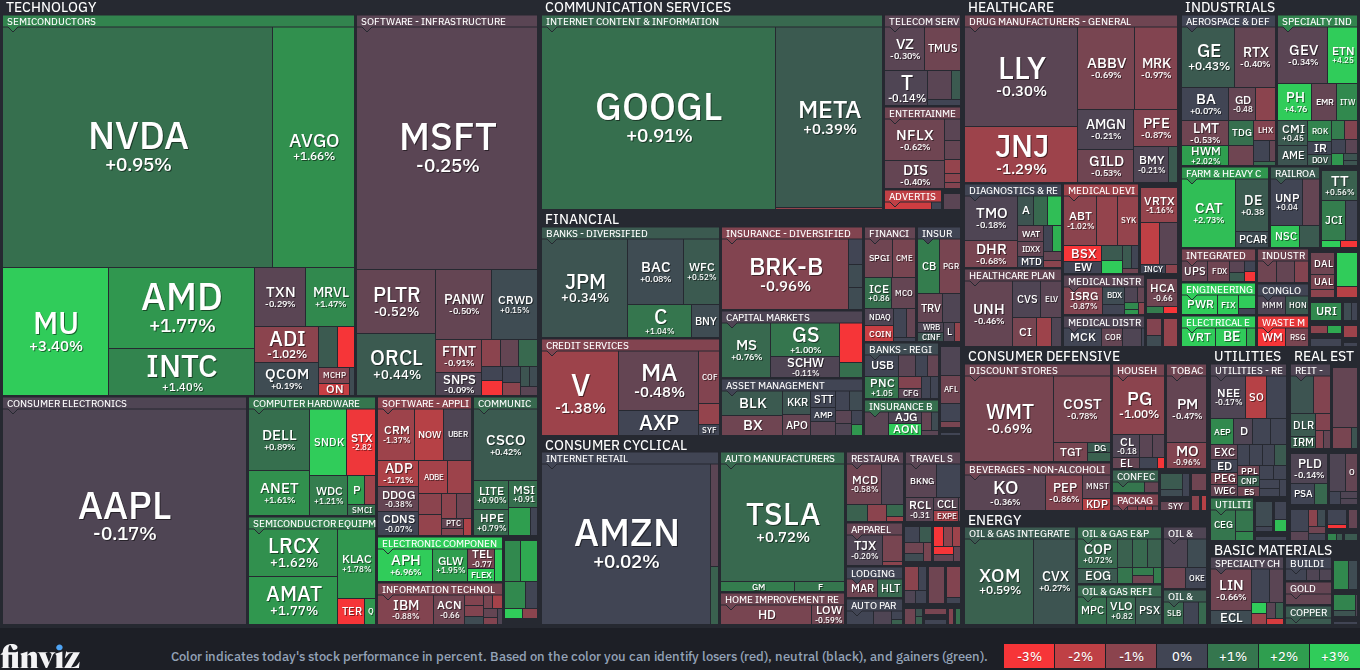
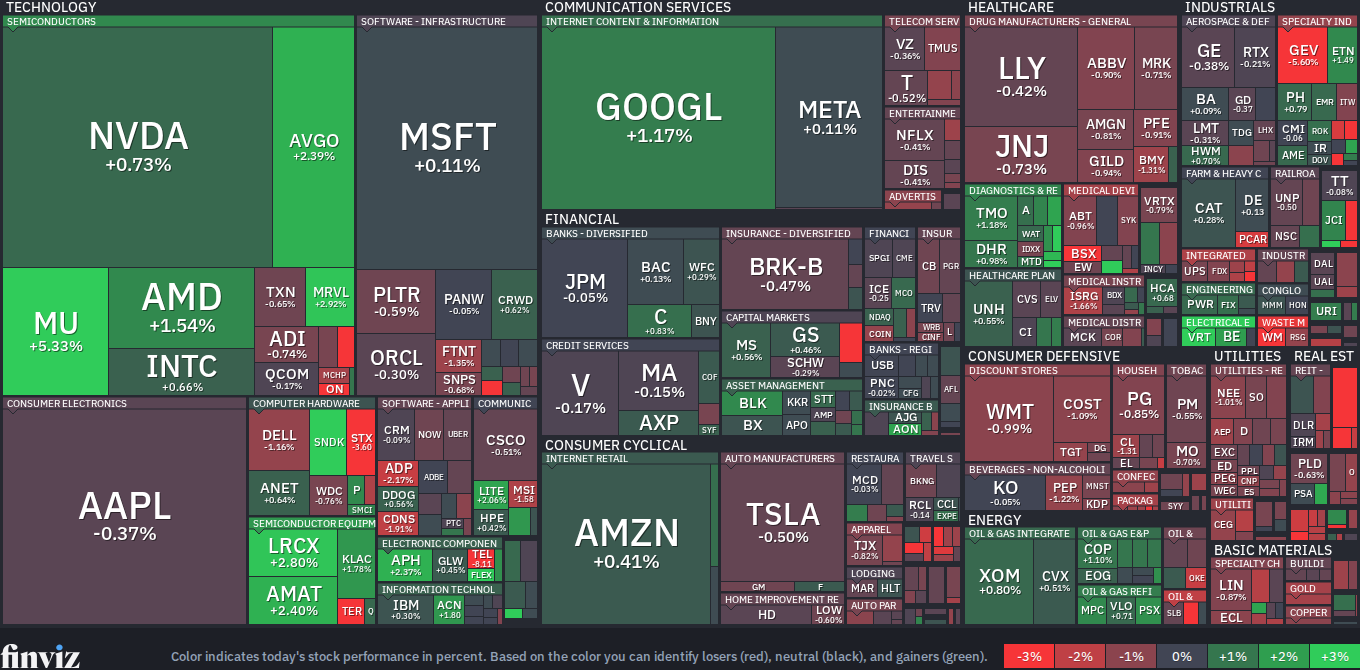
Auto-update blog preview, stock history, and charts [skip ci]

diff --git a/blog_preview.html b/blog_preview.html
@@ -2,7 +2,7 @@
 <html lang="ko">
 <head>
     <meta charset="UTF-8">
-    <title>10월 28일 경제 주요 흐름 및 종목 추천 특징주 분석 - 신한지주, ISC, 엔비디아, 테슬라</title>
+    <title>10월 29일 경제 주요 흐름 및 종목 추천 특징주 분석 - 신한지주, ISC, NVIDIA, Tesla</title>
     <style>
         body { font-family: 'Apple SD Gothic Neo', sans-serif; max-width: 800px; margin: 40px auto; padding: 20px; line-height: 1.7; color: #333; }
         .timestamp-badge { background: #f1f3f5; color: #495057; font-size: 13px; padding: 6px 12px; border-radius: 20px; display: inline-block; margin-bottom: 15px; font-weight: bold; border: 1px solid #dee2e6; }
@@ -17,23 +17,23 @@
     </style>
 </head>
 <body>
-    <div class="timestamp-badge">⏱ 업데이트 시각: 2026년 10월 28일 22:11:44 (KST)</div>
+    <div class="timestamp-badge">⏱ 업데이트 시각: 2026년 10월 28일 22:39:39 (KST)</div>
     <h1>📊 자동 생성 블로그 포스팅 미리보기</h1>
     <p>우측 상단의 <b>[본문 복사]</b> 버튼을 누른 뒤 블로그 에디터에 붙여넣으세요!</p>
     <hr>
     
     <h3>📌 포스팅 제목</h3>
-    <div class="title-box">10월 28일 경제 주요 흐름 및 종목 추천 특징주 분석 - 신한지주, ISC, 엔비디아, 테슬라</div>
+    <div class="title-box">10월 29일 경제 주요 흐름 및 종목 추천 특징주 분석 - 신한지주, ISC, NVIDIA, Tesla</div>
 
     <h3>📝 본문 텍스트 (차트 및 거시경제 링크 포함)</h3>
     <div class="content-container">
         <button class="copy-btn" onclick="copyContent()">📋 본문 복사</button>
-        <div class="content" id="blog-content">안녕하세요. 요즘 증시가 오를만하면 빠지고 또 찔끔 반등하는 반복이라 차트 보고 있으면 한숨만 나오는 것 같습니다... <br>주변 친구들도 코인이나 주식으로 한강 갈 판이라고 농담 반 진담 반으로 그러는데 제발 멘탈 잘 잡고 버텨야겠습니다 ㅜㅜ<br>오늘도 어김없이 거시경제 지표 흐름 체크해온 거랑 조건 검색으로 건진 종목들 분석해드릴게요.<br><br>[경제 이슈]<br><br>원화 M2 통화량) https://tradingeconomics.com/south-korea/money-supply-m2<br>한국 경기선행지수 ) https://tradingeconomics.com/south-korea/leading-economic-index<br>달러 M2 통화량) https://tradingeconomics.com/united-states/money-supply-m2<br>미국 경기선행지수 ) https://tradingeconomics.com/united-states/leading-economic-index<br><br>통화량과 경기선행지수는 위 사이트에서 확인하실 수 있습니다. 꾸준히 우상향하는 흐름이에요.<br><br><div class="img-box"><img src="https://dhlee090512-arch.github.io/autoblog/assets/usdkrw_chart.png?t=1793193104" alt="환율 차트"></div><br>![환율 차트](https://github.com/user-attachments/assets/placeholder)<br><br>차트를 보면 최근 환율이 1,500원대 높은 구간에서 쭉 미끄러지듯 내려와서 1,320원 부근까지 저점을 찍고 최근에 다시 살짝 반등해서 1,340원대 안착을 시도하는 모습입니다. 연준의 FOMC 회의나 금리 정책에 대한 경계감이 워낙 팽팽한 시기라 아래쪽으로 지지를 받으면서 단기 반발 매수세가 붙은 것으로 보입니다. 환율이 다시 살짝 고개를 드는 국면이라 외국인 수급이 대거 유입되기보다는 눈치 보기 장세가 이어질 가능성이 높아 보입니다.<br><br>![Finviz 맵](https://github.com/user-attachments/assets/placeholder)<br><br><div class="img-box"><img src="https://dhlee090512-arch.github.io/autoblog/assets/finviz_map.png?t=1793193104" alt="Finviz 섹터 맵"></div><br>오늘 핀비즈 맵을 살펴보면 테크놀로지 섹터가 전반적으로 초록빛을 띠며 반등하는 흐름입니다. 특히 반도체 쪽에서 NVDA, AMD, MU, INTC 같은 주요 종목들이 튼튼하게 상승세를 보여주고 있고, 소프트웨어나 커뮤니케이션 쪽에서도 GOOGL이나 META 등이 소폭 오르면서 기술주 중심의 온기가 돌고 있습니다. 다만 헬스케어랑 소비재 쪽은 붉은색이 좀 더 많이 보이면서 업종별로 차별화 장세가 뚜렷하게 갈리는 분위기입니다.<br><br>이런 상황을 종합해 보면, 국내외로 금리 결정 이벤트를 앞두고 매크로 불확실성이 극에 달한 상태입니다. 미장은 빅테크와 반도체 위주로 저가 매수세가 들어오며 방어하는 모양새지만, 국장은 환율 변동성과 맞물려 수급이 매끄럽지 않은 편입니다. 무리하게 풀매수하기보다는 지지선을 철저히 지켜주는 종목 위주로 짧게 치고 빠지는 전략이 안전할 것 같습니다.<br><br><br>[특징주 분석]<br><br>1. 신한지주<br><br>(종목 차트)<br>(종목 트레이딩뷰 url)<br><br>첫 번째로 볼 국장 종목은 신한지주입니다. 최근 단기 낙폭이 과하게 나오면서 120일 최저점 부근까지 밀렸다가 최근 거래량을 동반한 장대양봉으로 강하게 고가 마감된 모습입니다. RSI가 27 근처의 과매도 구간을 드디어 탈피하면서 단기 반등 파동의 초입일 가능성이 높아 보입니다. 중기 이평선이 여전히 역배열 상태이므로 추격 매수보다는 눌림목을 노리는 것이 안전합니다. 추천 진입 타점은 86,000원 부근의 눌림목 지지로 잡고, 최근 저점을 이탈하는 82,400원을 손절선으로 타이트하게 잡는 게 좋아 보입니다.<br><br>2. ISC<br><br>(종목 차트)<br>(종목 트레이딩뷰 url)<br><br>두 번째 국장 종목은 ISC입니다. 반도체 장비 관련 테마 속에서 최근 조정을 거치고 대량 거래량을 터뜨리며 장대양봉을 뽑아낸 것이 특징입니다. 주요 매물대 POC 상단을 위로 뚫어낸 상태라 단기 추세 반전 기대감이 살아 있는 편입니다. RSI도 47 부근으로 중립 우상향 흐름을 잡아가고 있어서 모멘텀이 괜찮습니다. 162,500원 전후의 가격대를 눌림목 지지 타점으로 보고, 148,300원을 이탈하면 리스크 관리 차원에서 손절하는 전략으로 접근하는 것이 유리해 보입니다.<br><br>3. Nvidia<br><br>(종목 차트)<br>(종목 트레이딩뷰 url)<br><br>미장 첫 번째 종목은 엔비디아입니다. 최근 AI 관련 거품 논란과 단기 조정 속에서도 120일선과 주요 매물대 POC 상단 부근에서 바닥을 단단하게 다지는 흐름이 나왔습니다. RSI는 40대 중후반에서 상향 반등을 시도하고 있으며, 빅테크 실적 기대감과 맞물려 매수세가 유입되는 모습입니다. MACD 데드크로스가 아직 완전히 해소되지는 않았기 때문에 213.58달러 안팎의 눌림목 타점을 공략하는 것이 현명합니다. 손절선은 주요 매물대와 버퍼를 고려해 207.04달러로 타이트하게 설정하는 것을 추천합니다.<br><br>4. Tesla, Inc.<br><br>(종목 차트)<br>(종목 트레이딩뷰 url)<br><br>마지막 미장 종목은 테슬라입니다. 최근 월스트리트 거래대금 상위를 꾸준히 유지하면서 볼린저밴드 상단을 강하게 돌파하는 장대양봉이 터졌습니다. RSI가 65를 넘어가며 상승 모멘텀이 아주 가파르게 붙어 있는 상태이고, MACD도 골든크로스를 유지하면서 에너지가 좋은 편입니다. 399.31달러 부근을 단기 눌림목 매수 타사로 잡고, 385.53달러를 손절선으로 잡고 대응하면 손익비가 꽤 훌륭하게 나올 것 같습니다.<br><br><br>요즘 장이 하도 롤러코스터를 타서 마음의 평화를 유지하기가 힘든데 다들 멘탈 잘 붙잡으셨으면 좋겠습니다. 내일도 살아남아서 쓸만한 정보 들고 찾아오겠습니다.<br><br>읽어주셔서 감사합니다. 끗</div>
+        <div class="content" id="blog-content">안녕하세요. 요즘 증시가 위아래로 흔들리는 폭이 워낙 크다 보니까 본업 하다가도 폰으로 계좌 보게 되는 날이 많네요...<br>주변 주식하는 친구들도 요즘 장 너무 매운맛이라며 한숨만 푹푹 쉬는데 그래도 어쩌겠습니까 살아남아야죠.<br>오늘도 정신 바짝 차리고 거시경제 지표부터 싹 정리해왔으니까 차근차근 살펴보겠습니다.<br><br>[경제 이슈]<br><br>원화 M2 통화량) https://tradingeconomics.com/south-korea/money-supply-m2<br>한국 경기선행지수 ) https://tradingeconomics.com/south-korea/leading-economic-index<br>달러 M2 통화량) https://tradingeconomics.com/united-states/money-supply-m2<br>미국 경기선행지수 ) https://tradingeconomics.com/united-states/leading-economic-index<br><br>통화량과 경기선행지수는 위 사이트에서 확인 가능합니다. 꾸준히 우상향 추세입니다.<br><br><div class="img-box"><img src="https://dhlee090512-arch.github.io/autoblog/assets/usdkrw_chart.png?t=1793194779" alt="환율 차트"></div><br><br>환율 차트를 보면 최근 고점을 찍고 줄줄 흘러내리다가 최근에 1,320원 부근 저점을 다지고 다시 살짝 고개를 드는 모습이 나옵니다. 1,500원대를 넘보던 시기에 비하면 원화가 많이 강해진 셈이지만, 연준의 금리 결정이랑 FOMC 회의를 앞두고 경계 매물이 나오면서 단기 반등하는 흐름인 것 같아요. 외환당국도 계속 긴장하고 있는 국면이라 무턱대고 환율이 계속 빠질 거라고 믿기보다는 상방 열려있는 걸 열어두고 보수적으로 접근하는 게 안전해 보입니다.<br><br><div class="img-box"><img src="https://dhlee090512-arch.github.io/autoblog/assets/finviz_map.png?t=1793194779" alt="Finviz 섹터 맵"></div><br><br>핀비즈 맵을 보면 테크 섹터랑 반도체 쪽은 진한 초록색을 띠면서 전반적으로 좋은 흐름을 보여주고 있습니다. 특히 마이크론이나 엔비디아 같은 대형 반도체 주식들이 강세를 주도하고 있고, 커뮤니케이션 서비스나 일부 소비재 쪽도 초록불이 켜지면서 시장에 온기가 돌고 있는 모습입니다. 반면 헬스케어랑 일부 유틸리티 및 필수 소비재 쪽은 빨간불이 켜지면서 자금이 기술주 쪽으로 쏠린 걸 확인할 수 있습니다.<br><br><br>위 내용을 종합해 보면 지금 시장은 FOMC 발표를 앞두고 눈치 보기 장세가 짙은 상태입니다. 국내는 환율이 바닥 다지고 살짝 반등하는 기미를 보이면서 외국인 수급이 대형주 위주로 조심스럽게 들어오는 느낌이고요. 미장은 AI 테마랑 반도체 중심으로 다시 매수세가 붙으면서 나쁘지 않은 분위기를 풍기고 있습니다. 다만 연준의 스탠스에 따라 언제든지 분위기가 뒤집힐 수 있어서 방심은 금물입니다.<br><br>이럴 때일수록 무리하게 레버리지 쓰기보다는 차트에서 바닥을 다지고 확실하게 지지 라인을 지켜주는 종목들 위주로 짧게 스윙 치는 게 현명한 것 같아요. 변동성이 크니까 욕심 부리지 말고 손절가 칼같이 잡고 대응하는 트레이딩 관점이 유리할 겁니다.<br><br><br><br>[특징주 분석]<br><br>1. 신한지주<br><br>(종목 차트)<br>(종목 트레이딩뷰 url)<br><br>첫 번째 종목은 신한지주입니다. 최근 단기 낙폭이 깊어지면서 120일 최저점 부근까지 밀렸다가 최근 거래량을 동반한 장대양봉이 터져 나오면서 단기 바닥 시그널을 만들었습니다. Wilder RSI는 27대 과매도 구간에서 강하게 위로 고개를 돌리며 모멘텀을 회복하는 모양새입니다. 다만 아직 중기 이동평균선들이 역배열 상태라서 추세가 완전히 돌아섰다고 보기엔 이릅니다. 안전한 매수 타점은 86,000원 부근의 눌림목을 노리는 것이 좋고, 혹시라도 최근 저점을 깨고 내려가면 82,400원 부근에서 손절하며 리스크를 관리하는 게 현명해 보입니다.<br><br>2. ISC<br><br>(종목 차트)<br>(종목 트레이딩뷰 url)<br><br>두 번째 국장 종목은 ISC입니다. 최근 조정을 길게 받다가 대량 거래량이 터지면서 장대양봉으로 전고점 저항대를 뚫어버리는 강한 매수세가 유입되었습니다. RSI도 47 부근을 회복하면서 추가 상승 여력을 보여주고 있고 주요 매물대 상단에 자리를 잘 잡았습니다. 162,500원 전후로 나오는 눌림목 자리를 매수 포인트로 잡고, 혹시 장이 꺾이면서 매물대를 이탈하면 148,300원을 손절선으로 잡고 빠져나오는 전략이 좋아 보입니다.<br><br>3. NVIDIA<br><br>(종목 차트)<br>(종목 트레이딩뷰 url)<br><br>미장 첫 번째 종목은 엔비디아입니다. 최근 AI 거품론이나 변동성 때문에 조정을 좀 맞았지만 120일선과 주요 매물대 상단에서 기막히게 지지를 받으면서 반등 시도를 하고 있습니다. RSI도 40대 중반에서 위로 올라오면서 단기 반등 모멘텀에 불을 지폈습니다. MACD 데드크로스가 아직 신경 쓰이긴 하니까 추격 매수보다는 213.58달러 부근까지 내려오는 눌림목을 기다렸다가 받는 게 안전합니다. 손절라인은 최근 지지력을 보여준 207.04달러 이탈 시 칼같이 자르는 게 좋습니다.<br><br>4. Tesla, Inc.<br><br>(종목 차트)<br>(종목 트레이딩뷰 url)<br><br>마지막 미장 종목은 테슬라입니다. 최근 대량 거래대금을 실은 장대양봉이 꽂히면서 일목구름대 위로 안착했고 볼린저밴드 상단을 강하게 밀어 올리는 기세가 장난 아닙니다. RSI도 65를 넘기며 매수 에너지가 충만한 상태고 MACD 골든크로스도 이쁘게 터졌습니다. 차트 흐름이 워낙 강해서 399.31달러 부근의 눌림목을 타점으로 잡고 들어가기 좋아 보입니다. 혹시라도 수급이 꼬여서 내려간다면 385.53달러를 손절선으로 잡고 대응하는 것이 리스크 관리 측면에서 안전할 것 같습니다.<br><br><br>요즘은 장이 지수만 믿고 가기에는 변수가 너무 많아서 개별 종목들의 테크니컬한 자리나 수급 쏠림을 보면서 짧게 먹고 나오는 게 정신 건강에 이로운 것 같아요. 내일도 장 열리면 열심히 모니터링해보고 괜찮은 내용 들고 오겠습니다.<br><br>읽어주셔서 감사합니다. 끗</div>
     </div>
 
     <script>
         function copyContent() {
-            const textToCopy = "\uc548\ub155\ud558\uc138\uc694. \uc694\uc998 \uc99d\uc2dc\uac00 \uc624\ub97c\ub9cc\ud558\uba74 \ube60\uc9c0\uace0 \ub610 \ucc14\ub054 \ubc18\ub4f1\ud558\ub294 \ubc18\ubcf5\uc774\ub77c \ucc28\ud2b8 \ubcf4\uace0 \uc788\uc73c\uba74 \ud55c\uc228\ub9cc \ub098\uc624\ub294 \uac83 \uac19\uc2b5\ub2c8\ub2e4... \n\uc8fc\ubcc0 \uce5c\uad6c\ub4e4\ub3c4 \ucf54\uc778\uc774\ub098 \uc8fc\uc2dd\uc73c\ub85c \ud55c\uac15 \uac08 \ud310\uc774\ub77c\uace0 \ub18d\ub2f4 \ubc18 \uc9c4\ub2f4 \ubc18\uc73c\ub85c \uadf8\ub7ec\ub294\ub370 \uc81c\ubc1c \uba58\ud0c8 \uc798 \uc7a1\uace0 \ubc84\ud168\uc57c\uaca0\uc2b5\ub2c8\ub2e4 \u315c\u315c\n\uc624\ub298\ub3c4 \uc5b4\uae40\uc5c6\uc774 \uac70\uc2dc\uacbd\uc81c \uc9c0\ud45c \ud750\ub984 \uccb4\ud06c\ud574\uc628 \uac70\ub791 \uc870\uac74 \uac80\uc0c9\uc73c\ub85c \uac74\uc9c4 \uc885\ubaa9\ub4e4 \ubd84\uc11d\ud574\ub4dc\ub9b4\uac8c\uc694.\n\n[\uacbd\uc81c \uc774\uc288]\n\n\uc6d0\ud654 M2 \ud1b5\ud654\ub7c9) https://tradingeconomics.com/south-korea/money-supply-m2\n\ud55c\uad6d \uacbd\uae30\uc120\ud589\uc9c0\uc218 ) https://tradingeconomics.com/south-korea/leading-economic-index\n\ub2ec\ub7ec M2 \ud1b5\ud654\ub7c9) https://tradingeconomics.com/united-states/money-supply-m2\n\ubbf8\uad6d \uacbd\uae30\uc120\ud589\uc9c0\uc218 ) https://tradingeconomics.com/united-states/leading-economic-index\n\n\ud1b5\ud654\ub7c9\uacfc \uacbd\uae30\uc120\ud589\uc9c0\uc218\ub294 \uc704 \uc0ac\uc774\ud2b8\uc5d0\uc11c \ud655\uc778\ud558\uc2e4 \uc218 \uc788\uc2b5\ub2c8\ub2e4. \uafb8\uc900\ud788 \uc6b0\uc0c1\ud5a5\ud558\ub294 \ud750\ub984\uc774\uc5d0\uc694.\n\n<div class=\"img-box\"><img src=\"https://dhlee090512-arch.github.io/autoblog/assets/usdkrw_chart.png?t=1793193104\" alt=\"\ud658\uc728 \ucc28\ud2b8\"></div>\n![\ud658\uc728 \ucc28\ud2b8](https://github.com/user-attachments/assets/placeholder)\n\n\ucc28\ud2b8\ub97c \ubcf4\uba74 \ucd5c\uadfc \ud658\uc728\uc774 1,500\uc6d0\ub300 \ub192\uc740 \uad6c\uac04\uc5d0\uc11c \ucb49 \ubbf8\ub044\ub7ec\uc9c0\ub4ef \ub0b4\ub824\uc640\uc11c 1,320\uc6d0 \ubd80\uadfc\uae4c\uc9c0 \uc800\uc810\uc744 \ucc0d\uace0 \ucd5c\uadfc\uc5d0 \ub2e4\uc2dc \uc0b4\uc9dd \ubc18\ub4f1\ud574\uc11c 1,340\uc6d0\ub300 \uc548\ucc29\uc744 \uc2dc\ub3c4\ud558\ub294 \ubaa8\uc2b5\uc785\ub2c8\ub2e4. \uc5f0\uc900\uc758 FOMC \ud68c\uc758\ub098 \uae08\ub9ac \uc815\ucc45\uc5d0 \ub300\ud55c \uacbd\uacc4\uac10\uc774 \uc6cc\ub099 \ud33d\ud33d\ud55c \uc2dc\uae30\ub77c \uc544\ub798\ucabd\uc73c\ub85c \uc9c0\uc9c0\ub97c \ubc1b\uc73c\uba74\uc11c \ub2e8\uae30 \ubc18\ubc1c \ub9e4\uc218\uc138\uac00 \ubd99\uc740 \uac83\uc73c\ub85c \ubcf4\uc785\ub2c8\ub2e4. \ud658\uc728\uc774 \ub2e4\uc2dc \uc0b4\uc9dd \uace0\uac1c\ub97c \ub4dc\ub294 \uad6d\uba74\uc774\ub77c \uc678\uad6d\uc778 \uc218\uae09\uc774 \ub300\uac70 \uc720\uc785\ub418\uae30\ubcf4\ub2e4\ub294 \ub208\uce58 \ubcf4\uae30 \uc7a5\uc138\uac00 \uc774\uc5b4\uc9c8 \uac00\ub2a5\uc131\uc774 \ub192\uc544 \ubcf4\uc785\ub2c8\ub2e4.\n\n![Finviz \ub9f5](https://github.com/user-attachments/assets/placeholder)\n\n<div class=\"img-box\"><img src=\"https://dhlee090512-arch.github.io/autoblog/assets/finviz_map.png?t=1793193104\" alt=\"Finviz \uc139\ud130 \ub9f5\"></div>\n\uc624\ub298 \ud540\ube44\uc988 \ub9f5\uc744 \uc0b4\ud3b4\ubcf4\uba74 \ud14c\ud06c\ub180\ub85c\uc9c0 \uc139\ud130\uac00 \uc804\ubc18\uc801\uc73c\ub85c \ucd08\ub85d\ube5b\uc744 \ub760\uba70 \ubc18\ub4f1\ud558\ub294 \ud750\ub984\uc785\ub2c8\ub2e4. \ud2b9\ud788 \ubc18\ub3c4\uccb4 \ucabd\uc5d0\uc11c NVDA, AMD, MU, INTC \uac19\uc740 \uc8fc\uc694 \uc885\ubaa9\ub4e4\uc774 \ud2bc\ud2bc\ud558\uac8c \uc0c1\uc2b9\uc138\ub97c \ubcf4\uc5ec\uc8fc\uace0 \uc788\uace0, \uc18c\ud504\ud2b8\uc6e8\uc5b4\ub098 \ucee4\ubba4\ub2c8\ucf00\uc774\uc158 \ucabd\uc5d0\uc11c\ub3c4 GOOGL\uc774\ub098 META \ub4f1\uc774 \uc18c\ud3ed \uc624\ub974\uba74\uc11c \uae30\uc220\uc8fc \uc911\uc2ec\uc758 \uc628\uae30\uac00 \ub3cc\uace0 \uc788\uc2b5\ub2c8\ub2e4. \ub2e4\ub9cc \ud5ec\uc2a4\ucf00\uc5b4\ub791 \uc18c\ube44\uc7ac \ucabd\uc740 \ubd89\uc740\uc0c9\uc774 \uc880 \ub354 \ub9ce\uc774 \ubcf4\uc774\uba74\uc11c \uc5c5\uc885\ubcc4\ub85c \ucc28\ubcc4\ud654 \uc7a5\uc138\uac00 \ub69c\ub837\ud558\uac8c \uac08\ub9ac\ub294 \ubd84\uc704\uae30\uc785\ub2c8\ub2e4.\n\n\uc774\ub7f0 \uc0c1\ud669\uc744 \uc885\ud569\ud574 \ubcf4\uba74, \uad6d\ub0b4\uc678\ub85c \uae08\ub9ac \uacb0\uc815 \uc774\ubca4\ud2b8\ub97c \uc55e\ub450\uace0 \ub9e4\ud06c\ub85c \ubd88\ud655\uc2e4\uc131\uc774 \uadf9\uc5d0 \ub2ec\ud55c \uc0c1\ud0dc\uc785\ub2c8\ub2e4. \ubbf8\uc7a5\uc740 \ube45\ud14c\ud06c\uc640 \ubc18\ub3c4\uccb4 \uc704\uc8fc\ub85c \uc800\uac00 \ub9e4\uc218\uc138\uac00 \ub4e4\uc5b4\uc624\uba70 \ubc29\uc5b4\ud558\ub294 \ubaa8\uc591\uc0c8\uc9c0\ub9cc, \uad6d\uc7a5\uc740 \ud658\uc728 \ubcc0\ub3d9\uc131\uacfc \ub9de\ubb3c\ub824 \uc218\uae09\uc774 \ub9e4\ub044\ub7fd\uc9c0 \uc54a\uc740 \ud3b8\uc785\ub2c8\ub2e4. \ubb34\ub9ac\ud558\uac8c \ud480\ub9e4\uc218\ud558\uae30\ubcf4\ub2e4\ub294 \uc9c0\uc9c0\uc120\uc744 \ucca0\uc800\ud788 \uc9c0\ucf1c\uc8fc\ub294 \uc885\ubaa9 \uc704\uc8fc\ub85c \uc9e7\uac8c \uce58\uace0 \ube60\uc9c0\ub294 \uc804\ub7b5\uc774 \uc548\uc804\ud560 \uac83 \uac19\uc2b5\ub2c8\ub2e4.\n\n\n[\ud2b9\uc9d5\uc8fc \ubd84\uc11d]\n\n1. \uc2e0\ud55c\uc9c0\uc8fc\n\n(\uc885\ubaa9 \ucc28\ud2b8)\n(\uc885\ubaa9 \ud2b8\ub808\uc774\ub529\ubdf0 url)\n\n\uccab \ubc88\uc9f8\ub85c \ubcfc \uad6d\uc7a5 \uc885\ubaa9\uc740 \uc2e0\ud55c\uc9c0\uc8fc\uc785\ub2c8\ub2e4. \ucd5c\uadfc \ub2e8\uae30 \ub099\ud3ed\uc774 \uacfc\ud558\uac8c \ub098\uc624\uba74\uc11c 120\uc77c \ucd5c\uc800\uc810 \ubd80\uadfc\uae4c\uc9c0 \ubc00\ub838\ub2e4\uac00 \ucd5c\uadfc \uac70\ub798\ub7c9\uc744 \ub3d9\ubc18\ud55c \uc7a5\ub300\uc591\ubd09\uc73c\ub85c \uac15\ud558\uac8c \uace0\uac00 \ub9c8\uac10\ub41c \ubaa8\uc2b5\uc785\ub2c8\ub2e4. RSI\uac00 27 \uadfc\ucc98\uc758 \uacfc\ub9e4\ub3c4 \uad6c\uac04\uc744 \ub4dc\ub514\uc5b4 \ud0c8\ud53c\ud558\uba74\uc11c \ub2e8\uae30 \ubc18\ub4f1 \ud30c\ub3d9\uc758 \ucd08\uc785\uc77c \uac00\ub2a5\uc131\uc774 \ub192\uc544 \ubcf4\uc785\ub2c8\ub2e4. \uc911\uae30 \uc774\ud3c9\uc120\uc774 \uc5ec\uc804\ud788 \uc5ed\ubc30\uc5f4 \uc0c1\ud0dc\uc774\ubbc0\ub85c \ucd94\uaca9 \ub9e4\uc218\ubcf4\ub2e4\ub294 \ub20c\ub9bc\ubaa9\uc744 \ub178\ub9ac\ub294 \uac83\uc774 \uc548\uc804\ud569\ub2c8\ub2e4. \ucd94\ucc9c \uc9c4\uc785 \ud0c0\uc810\uc740 86,000\uc6d0 \ubd80\uadfc\uc758 \ub20c\ub9bc\ubaa9 \uc9c0\uc9c0\ub85c \uc7a1\uace0, \ucd5c\uadfc \uc800\uc810\uc744 \uc774\ud0c8\ud558\ub294 82,400\uc6d0\uc744 \uc190\uc808\uc120\uc73c\ub85c \ud0c0\uc774\ud2b8\ud558\uac8c \uc7a1\ub294 \uac8c \uc88b\uc544 \ubcf4\uc785\ub2c8\ub2e4.\n\n2. ISC\n\n(\uc885\ubaa9 \ucc28\ud2b8)\n(\uc885\ubaa9 \ud2b8\ub808\uc774\ub529\ubdf0 url)\n\n\ub450 \ubc88\uc9f8 \uad6d\uc7a5 \uc885\ubaa9\uc740 ISC\uc785\ub2c8\ub2e4. \ubc18\ub3c4\uccb4 \uc7a5\ube44 \uad00\ub828 \ud14c\ub9c8 \uc18d\uc5d0\uc11c \ucd5c\uadfc \uc870\uc815\uc744 \uac70\uce58\uace0 \ub300\ub7c9 \uac70\ub798\ub7c9\uc744 \ud130\ub728\ub9ac\uba70 \uc7a5\ub300\uc591\ubd09\uc744 \ubf51\uc544\ub0b8 \uac83\uc774 \ud2b9\uc9d5\uc785\ub2c8\ub2e4. \uc8fc\uc694 \ub9e4\ubb3c\ub300 POC \uc0c1\ub2e8\uc744 \uc704\ub85c \ub6ab\uc5b4\ub0b8 \uc0c1\ud0dc\ub77c \ub2e8\uae30 \ucd94\uc138 \ubc18\uc804 \uae30\ub300\uac10\uc774 \uc0b4\uc544 \uc788\ub294 \ud3b8\uc785\ub2c8\ub2e4. RSI\ub3c4 47 \ubd80\uadfc\uc73c\ub85c \uc911\ub9bd \uc6b0\uc0c1\ud5a5 \ud750\ub984\uc744 \uc7a1\uc544\uac00\uace0 \uc788\uc5b4\uc11c \ubaa8\uba58\ud140\uc774 \uad1c\ucc2e\uc2b5\ub2c8\ub2e4. 162,500\uc6d0 \uc804\ud6c4\uc758 \uac00\uaca9\ub300\ub97c \ub20c\ub9bc\ubaa9 \uc9c0\uc9c0 \ud0c0\uc810\uc73c\ub85c \ubcf4\uace0, 148,300\uc6d0\uc744 \uc774\ud0c8\ud558\uba74 \ub9ac\uc2a4\ud06c \uad00\ub9ac \ucc28\uc6d0\uc5d0\uc11c \uc190\uc808\ud558\ub294 \uc804\ub7b5\uc73c\ub85c \uc811\uadfc\ud558\ub294 \uac83\uc774 \uc720\ub9ac\ud574 \ubcf4\uc785\ub2c8\ub2e4.\n\n3. Nvidia\n\n(\uc885\ubaa9 \ucc28\ud2b8)\n(\uc885\ubaa9 \ud2b8\ub808\uc774\ub529\ubdf0 url)\n\n\ubbf8\uc7a5 \uccab \ubc88\uc9f8 \uc885\ubaa9\uc740 \uc5d4\ube44\ub514\uc544\uc785\ub2c8\ub2e4. \ucd5c\uadfc AI \uad00\ub828 \uac70\ud488 \ub17c\ub780\uacfc \ub2e8\uae30 \uc870\uc815 \uc18d\uc5d0\uc11c\ub3c4 120\uc77c\uc120\uacfc \uc8fc\uc694 \ub9e4\ubb3c\ub300 POC \uc0c1\ub2e8 \ubd80\uadfc\uc5d0\uc11c \ubc14\ub2e5\uc744 \ub2e8\ub2e8\ud558\uac8c \ub2e4\uc9c0\ub294 \ud750\ub984\uc774 \ub098\uc654\uc2b5\ub2c8\ub2e4. RSI\ub294 40\ub300 \uc911\ud6c4\ubc18\uc5d0\uc11c \uc0c1\ud5a5 \ubc18\ub4f1\uc744 \uc2dc\ub3c4\ud558\uace0 \uc788\uc73c\uba70, \ube45\ud14c\ud06c \uc2e4\uc801 \uae30\ub300\uac10\uacfc \ub9de\ubb3c\ub824 \ub9e4\uc218\uc138\uac00 \uc720\uc785\ub418\ub294 \ubaa8\uc2b5\uc785\ub2c8\ub2e4. MACD \ub370\ub4dc\ud06c\ub85c\uc2a4\uac00 \uc544\uc9c1 \uc644\uc804\ud788 \ud574\uc18c\ub418\uc9c0\ub294 \uc54a\uc558\uae30 \ub54c\ubb38\uc5d0 213.58\ub2ec\ub7ec \uc548\ud30e\uc758 \ub20c\ub9bc\ubaa9 \ud0c0\uc810\uc744 \uacf5\ub7b5\ud558\ub294 \uac83\uc774 \ud604\uba85\ud569\ub2c8\ub2e4. \uc190\uc808\uc120\uc740 \uc8fc\uc694 \ub9e4\ubb3c\ub300\uc640 \ubc84\ud37c\ub97c \uace0\ub824\ud574 207.04\ub2ec\ub7ec\ub85c \ud0c0\uc774\ud2b8\ud558\uac8c \uc124\uc815\ud558\ub294 \uac83\uc744 \ucd94\ucc9c\ud569\ub2c8\ub2e4.\n\n4. Tesla, Inc.\n\n(\uc885\ubaa9 \ucc28\ud2b8)\n(\uc885\ubaa9 \ud2b8\ub808\uc774\ub529\ubdf0 url)\n\n\ub9c8\uc9c0\ub9c9 \ubbf8\uc7a5 \uc885\ubaa9\uc740 \ud14c\uc2ac\ub77c\uc785\ub2c8\ub2e4. \ucd5c\uadfc \uc6d4\uc2a4\ud2b8\ub9ac\ud2b8 \uac70\ub798\ub300\uae08 \uc0c1\uc704\ub97c \uafb8\uc900\ud788 \uc720\uc9c0\ud558\uba74\uc11c \ubcfc\ub9b0\uc800\ubc34\ub4dc \uc0c1\ub2e8\uc744 \uac15\ud558\uac8c \ub3cc\ud30c\ud558\ub294 \uc7a5\ub300\uc591\ubd09\uc774 \ud130\uc84c\uc2b5\ub2c8\ub2e4. RSI\uac00 65\ub97c \ub118\uc5b4\uac00\uba70 \uc0c1\uc2b9 \ubaa8\uba58\ud140\uc774 \uc544\uc8fc \uac00\ud30c\ub974\uac8c \ubd99\uc5b4 \uc788\ub294 \uc0c1\ud0dc\uc774\uace0, MACD\ub3c4 \uace8\ub4e0\ud06c\ub85c\uc2a4\ub97c \uc720\uc9c0\ud558\uba74\uc11c \uc5d0\ub108\uc9c0\uac00 \uc88b\uc740 \ud3b8\uc785\ub2c8\ub2e4. 399.31\ub2ec\ub7ec \ubd80\uadfc\uc744 \ub2e8\uae30 \ub20c\ub9bc\ubaa9 \ub9e4\uc218 \ud0c0\uc0ac\ub85c \uc7a1\uace0, 385.53\ub2ec\ub7ec\ub97c \uc190\uc808\uc120\uc73c\ub85c \uc7a1\uace0 \ub300\uc751\ud558\uba74 \uc190\uc775\ube44\uac00 \uaf64 \ud6cc\ub96d\ud558\uac8c \ub098\uc62c \uac83 \uac19\uc2b5\ub2c8\ub2e4.\n\n\n\uc694\uc998 \uc7a5\uc774 \ud558\ub3c4 \ub864\ub7ec\ucf54\uc2a4\ud130\ub97c \ud0c0\uc11c \ub9c8\uc74c\uc758 \ud3c9\ud654\ub97c \uc720\uc9c0\ud558\uae30\uac00 \ud798\ub4e0\ub370 \ub2e4\ub4e4 \uba58\ud0c8 \uc798 \ubd99\uc7a1\uc73c\uc168\uc73c\uba74 \uc88b\uaca0\uc2b5\ub2c8\ub2e4. \ub0b4\uc77c\ub3c4 \uc0b4\uc544\ub0a8\uc544\uc11c \uc4f8\ub9cc\ud55c \uc815\ubcf4 \ub4e4\uace0 \ucc3e\uc544\uc624\uaca0\uc2b5\ub2c8\ub2e4.\n\n\uc77d\uc5b4\uc8fc\uc154\uc11c \uac10\uc0ac\ud569\ub2c8\ub2e4. \ub057";
+            const textToCopy = "\uc548\ub155\ud558\uc138\uc694. \uc694\uc998 \uc99d\uc2dc\uac00 \uc704\uc544\ub798\ub85c \ud754\ub4e4\ub9ac\ub294 \ud3ed\uc774 \uc6cc\ub099 \ud06c\ub2e4 \ubcf4\ub2c8\uae4c \ubcf8\uc5c5 \ud558\ub2e4\uac00\ub3c4 \ud3f0\uc73c\ub85c \uacc4\uc88c \ubcf4\uac8c \ub418\ub294 \ub0a0\uc774 \ub9ce\ub124\uc694...\n\uc8fc\ubcc0 \uc8fc\uc2dd\ud558\ub294 \uce5c\uad6c\ub4e4\ub3c4 \uc694\uc998 \uc7a5 \ub108\ubb34 \ub9e4\uc6b4\ub9db\uc774\ub77c\uba70 \ud55c\uc228\ub9cc \ud479\ud479 \uc26c\ub294\ub370 \uadf8\ub798\ub3c4 \uc5b4\uca4c\uaca0\uc2b5\ub2c8\uae4c \uc0b4\uc544\ub0a8\uc544\uc57c\uc8e0.\n\uc624\ub298\ub3c4 \uc815\uc2e0 \ubc14\uc9dd \ucc28\ub9ac\uace0 \uac70\uc2dc\uacbd\uc81c \uc9c0\ud45c\ubd80\ud130 \uc2f9 \uc815\ub9ac\ud574\uc654\uc73c\ub2c8\uae4c \ucc28\uadfc\ucc28\uadfc \uc0b4\ud3b4\ubcf4\uaca0\uc2b5\ub2c8\ub2e4.\n\n[\uacbd\uc81c \uc774\uc288]\n\n\uc6d0\ud654 M2 \ud1b5\ud654\ub7c9) https://tradingeconomics.com/south-korea/money-supply-m2\n\ud55c\uad6d \uacbd\uae30\uc120\ud589\uc9c0\uc218 ) https://tradingeconomics.com/south-korea/leading-economic-index\n\ub2ec\ub7ec M2 \ud1b5\ud654\ub7c9) https://tradingeconomics.com/united-states/money-supply-m2\n\ubbf8\uad6d \uacbd\uae30\uc120\ud589\uc9c0\uc218 ) https://tradingeconomics.com/united-states/leading-economic-index\n\n\ud1b5\ud654\ub7c9\uacfc \uacbd\uae30\uc120\ud589\uc9c0\uc218\ub294 \uc704 \uc0ac\uc774\ud2b8\uc5d0\uc11c \ud655\uc778 \uac00\ub2a5\ud569\ub2c8\ub2e4. \uafb8\uc900\ud788 \uc6b0\uc0c1\ud5a5 \ucd94\uc138\uc785\ub2c8\ub2e4.\n\n<div class=\"img-box\"><img src=\"https://dhlee090512-arch.github.io/autoblog/assets/usdkrw_chart.png?t=1793194779\" alt=\"\ud658\uc728 \ucc28\ud2b8\"></div>\n\n\ud658\uc728 \ucc28\ud2b8\ub97c \ubcf4\uba74 \ucd5c\uadfc \uace0\uc810\uc744 \ucc0d\uace0 \uc904\uc904 \ud758\ub7ec\ub0b4\ub9ac\ub2e4\uac00 \ucd5c\uadfc\uc5d0 1,320\uc6d0 \ubd80\uadfc \uc800\uc810\uc744 \ub2e4\uc9c0\uace0 \ub2e4\uc2dc \uc0b4\uc9dd \uace0\uac1c\ub97c \ub4dc\ub294 \ubaa8\uc2b5\uc774 \ub098\uc635\ub2c8\ub2e4. 1,500\uc6d0\ub300\ub97c \ub118\ubcf4\ub358 \uc2dc\uae30\uc5d0 \ube44\ud558\uba74 \uc6d0\ud654\uac00 \ub9ce\uc774 \uac15\ud574\uc9c4 \uc148\uc774\uc9c0\ub9cc, \uc5f0\uc900\uc758 \uae08\ub9ac \uacb0\uc815\uc774\ub791 FOMC \ud68c\uc758\ub97c \uc55e\ub450\uace0 \uacbd\uacc4 \ub9e4\ubb3c\uc774 \ub098\uc624\uba74\uc11c \ub2e8\uae30 \ubc18\ub4f1\ud558\ub294 \ud750\ub984\uc778 \uac83 \uac19\uc544\uc694. \uc678\ud658\ub2f9\uad6d\ub3c4 \uacc4\uc18d \uae34\uc7a5\ud558\uace0 \uc788\ub294 \uad6d\uba74\uc774\ub77c \ubb34\ud131\ub300\uace0 \ud658\uc728\uc774 \uacc4\uc18d \ube60\uc9c8 \uac70\ub77c\uace0 \ubbff\uae30\ubcf4\ub2e4\ub294 \uc0c1\ubc29 \uc5f4\ub824\uc788\ub294 \uac78 \uc5f4\uc5b4\ub450\uace0 \ubcf4\uc218\uc801\uc73c\ub85c \uc811\uadfc\ud558\ub294 \uac8c \uc548\uc804\ud574 \ubcf4\uc785\ub2c8\ub2e4.\n\n<div class=\"img-box\"><img src=\"https://dhlee090512-arch.github.io/autoblog/assets/finviz_map.png?t=1793194779\" alt=\"Finviz \uc139\ud130 \ub9f5\"></div>\n\n\ud540\ube44\uc988 \ub9f5\uc744 \ubcf4\uba74 \ud14c\ud06c \uc139\ud130\ub791 \ubc18\ub3c4\uccb4 \ucabd\uc740 \uc9c4\ud55c \ucd08\ub85d\uc0c9\uc744 \ub760\uba74\uc11c \uc804\ubc18\uc801\uc73c\ub85c \uc88b\uc740 \ud750\ub984\uc744 \ubcf4\uc5ec\uc8fc\uace0 \uc788\uc2b5\ub2c8\ub2e4. \ud2b9\ud788 \ub9c8\uc774\ud06c\ub860\uc774\ub098 \uc5d4\ube44\ub514\uc544 \uac19\uc740 \ub300\ud615 \ubc18\ub3c4\uccb4 \uc8fc\uc2dd\ub4e4\uc774 \uac15\uc138\ub97c \uc8fc\ub3c4\ud558\uace0 \uc788\uace0, \ucee4\ubba4\ub2c8\ucf00\uc774\uc158 \uc11c\ube44\uc2a4\ub098 \uc77c\ubd80 \uc18c\ube44\uc7ac \ucabd\ub3c4 \ucd08\ub85d\ubd88\uc774 \ucf1c\uc9c0\uba74\uc11c \uc2dc\uc7a5\uc5d0 \uc628\uae30\uac00 \ub3cc\uace0 \uc788\ub294 \ubaa8\uc2b5\uc785\ub2c8\ub2e4. \ubc18\uba74 \ud5ec\uc2a4\ucf00\uc5b4\ub791 \uc77c\ubd80 \uc720\ud2f8\ub9ac\ud2f0 \ubc0f \ud544\uc218 \uc18c\ube44\uc7ac \ucabd\uc740 \ube68\uac04\ubd88\uc774 \ucf1c\uc9c0\uba74\uc11c \uc790\uae08\uc774 \uae30\uc220\uc8fc \ucabd\uc73c\ub85c \uc3e0\ub9b0 \uac78 \ud655\uc778\ud560 \uc218 \uc788\uc2b5\ub2c8\ub2e4.\n\n\n\uc704 \ub0b4\uc6a9\uc744 \uc885\ud569\ud574 \ubcf4\uba74 \uc9c0\uae08 \uc2dc\uc7a5\uc740 FOMC \ubc1c\ud45c\ub97c \uc55e\ub450\uace0 \ub208\uce58 \ubcf4\uae30 \uc7a5\uc138\uac00 \uc9d9\uc740 \uc0c1\ud0dc\uc785\ub2c8\ub2e4. \uad6d\ub0b4\ub294 \ud658\uc728\uc774 \ubc14\ub2e5 \ub2e4\uc9c0\uace0 \uc0b4\uc9dd \ubc18\ub4f1\ud558\ub294 \uae30\ubbf8\ub97c \ubcf4\uc774\uba74\uc11c \uc678\uad6d\uc778 \uc218\uae09\uc774 \ub300\ud615\uc8fc \uc704\uc8fc\ub85c \uc870\uc2ec\uc2a4\ub7fd\uac8c \ub4e4\uc5b4\uc624\ub294 \ub290\ub08c\uc774\uace0\uc694. \ubbf8\uc7a5\uc740 AI \ud14c\ub9c8\ub791 \ubc18\ub3c4\uccb4 \uc911\uc2ec\uc73c\ub85c \ub2e4\uc2dc \ub9e4\uc218\uc138\uac00 \ubd99\uc73c\uba74\uc11c \ub098\uc058\uc9c0 \uc54a\uc740 \ubd84\uc704\uae30\ub97c \ud48d\uae30\uace0 \uc788\uc2b5\ub2c8\ub2e4. \ub2e4\ub9cc \uc5f0\uc900\uc758 \uc2a4\ud0e0\uc2a4\uc5d0 \ub530\ub77c \uc5b8\uc81c\ub4e0\uc9c0 \ubd84\uc704\uae30\uac00 \ub4a4\uc9d1\ud790 \uc218 \uc788\uc5b4\uc11c \ubc29\uc2ec\uc740 \uae08\ubb3c\uc785\ub2c8\ub2e4.\n\n\uc774\ub7f4 \ub54c\uc77c\uc218\ub85d \ubb34\ub9ac\ud558\uac8c \ub808\ubc84\ub9ac\uc9c0 \uc4f0\uae30\ubcf4\ub2e4\ub294 \ucc28\ud2b8\uc5d0\uc11c \ubc14\ub2e5\uc744 \ub2e4\uc9c0\uace0 \ud655\uc2e4\ud558\uac8c \uc9c0\uc9c0 \ub77c\uc778\uc744 \uc9c0\ucf1c\uc8fc\ub294 \uc885\ubaa9\ub4e4 \uc704\uc8fc\ub85c \uc9e7\uac8c \uc2a4\uc719 \uce58\ub294 \uac8c \ud604\uba85\ud55c \uac83 \uac19\uc544\uc694. \ubcc0\ub3d9\uc131\uc774 \ud06c\ub2c8\uae4c \uc695\uc2ec \ubd80\ub9ac\uc9c0 \ub9d0\uace0 \uc190\uc808\uac00 \uce7c\uac19\uc774 \uc7a1\uace0 \ub300\uc751\ud558\ub294 \ud2b8\ub808\uc774\ub529 \uad00\uc810\uc774 \uc720\ub9ac\ud560 \uac81\ub2c8\ub2e4.\n\n\n\n[\ud2b9\uc9d5\uc8fc \ubd84\uc11d]\n\n1. \uc2e0\ud55c\uc9c0\uc8fc\n\n(\uc885\ubaa9 \ucc28\ud2b8)\n(\uc885\ubaa9 \ud2b8\ub808\uc774\ub529\ubdf0 url)\n\n\uccab \ubc88\uc9f8 \uc885\ubaa9\uc740 \uc2e0\ud55c\uc9c0\uc8fc\uc785\ub2c8\ub2e4. \ucd5c\uadfc \ub2e8\uae30 \ub099\ud3ed\uc774 \uae4a\uc5b4\uc9c0\uba74\uc11c 120\uc77c \ucd5c\uc800\uc810 \ubd80\uadfc\uae4c\uc9c0 \ubc00\ub838\ub2e4\uac00 \ucd5c\uadfc \uac70\ub798\ub7c9\uc744 \ub3d9\ubc18\ud55c \uc7a5\ub300\uc591\ubd09\uc774 \ud130\uc838 \ub098\uc624\uba74\uc11c \ub2e8\uae30 \ubc14\ub2e5 \uc2dc\uadf8\ub110\uc744 \ub9cc\ub4e4\uc5c8\uc2b5\ub2c8\ub2e4. Wilder RSI\ub294 27\ub300 \uacfc\ub9e4\ub3c4 \uad6c\uac04\uc5d0\uc11c \uac15\ud558\uac8c \uc704\ub85c \uace0\uac1c\ub97c \ub3cc\ub9ac\uba70 \ubaa8\uba58\ud140\uc744 \ud68c\ubcf5\ud558\ub294 \ubaa8\uc591\uc0c8\uc785\ub2c8\ub2e4. \ub2e4\ub9cc \uc544\uc9c1 \uc911\uae30 \uc774\ub3d9\ud3c9\uade0\uc120\ub4e4\uc774 \uc5ed\ubc30\uc5f4 \uc0c1\ud0dc\ub77c\uc11c \ucd94\uc138\uac00 \uc644\uc804\ud788 \ub3cc\uc544\uc130\ub2e4\uace0 \ubcf4\uae30\uc5d4 \uc774\ub985\ub2c8\ub2e4. \uc548\uc804\ud55c \ub9e4\uc218 \ud0c0\uc810\uc740 86,000\uc6d0 \ubd80\uadfc\uc758 \ub20c\ub9bc\ubaa9\uc744 \ub178\ub9ac\ub294 \uac83\uc774 \uc88b\uace0, \ud639\uc2dc\ub77c\ub3c4 \ucd5c\uadfc \uc800\uc810\uc744 \uae68\uace0 \ub0b4\ub824\uac00\uba74 82,400\uc6d0 \ubd80\uadfc\uc5d0\uc11c \uc190\uc808\ud558\uba70 \ub9ac\uc2a4\ud06c\ub97c \uad00\ub9ac\ud558\ub294 \uac8c \ud604\uba85\ud574 \ubcf4\uc785\ub2c8\ub2e4.\n\n2. ISC\n\n(\uc885\ubaa9 \ucc28\ud2b8)\n(\uc885\ubaa9 \ud2b8\ub808\uc774\ub529\ubdf0 url)\n\n\ub450 \ubc88\uc9f8 \uad6d\uc7a5 \uc885\ubaa9\uc740 ISC\uc785\ub2c8\ub2e4. \ucd5c\uadfc \uc870\uc815\uc744 \uae38\uac8c \ubc1b\ub2e4\uac00 \ub300\ub7c9 \uac70\ub798\ub7c9\uc774 \ud130\uc9c0\uba74\uc11c \uc7a5\ub300\uc591\ubd09\uc73c\ub85c \uc804\uace0\uc810 \uc800\ud56d\ub300\ub97c \ub6ab\uc5b4\ubc84\ub9ac\ub294 \uac15\ud55c \ub9e4\uc218\uc138\uac00 \uc720\uc785\ub418\uc5c8\uc2b5\ub2c8\ub2e4. RSI\ub3c4 47 \ubd80\uadfc\uc744 \ud68c\ubcf5\ud558\uba74\uc11c \ucd94\uac00 \uc0c1\uc2b9 \uc5ec\ub825\uc744 \ubcf4\uc5ec\uc8fc\uace0 \uc788\uace0 \uc8fc\uc694 \ub9e4\ubb3c\ub300 \uc0c1\ub2e8\uc5d0 \uc790\ub9ac\ub97c \uc798 \uc7a1\uc558\uc2b5\ub2c8\ub2e4. 162,500\uc6d0 \uc804\ud6c4\ub85c \ub098\uc624\ub294 \ub20c\ub9bc\ubaa9 \uc790\ub9ac\ub97c \ub9e4\uc218 \ud3ec\uc778\ud2b8\ub85c \uc7a1\uace0, \ud639\uc2dc \uc7a5\uc774 \uaebe\uc774\uba74\uc11c \ub9e4\ubb3c\ub300\ub97c \uc774\ud0c8\ud558\uba74 148,300\uc6d0\uc744 \uc190\uc808\uc120\uc73c\ub85c \uc7a1\uace0 \ube60\uc838\ub098\uc624\ub294 \uc804\ub7b5\uc774 \uc88b\uc544 \ubcf4\uc785\ub2c8\ub2e4.\n\n3. NVIDIA\n\n(\uc885\ubaa9 \ucc28\ud2b8)\n(\uc885\ubaa9 \ud2b8\ub808\uc774\ub529\ubdf0 url)\n\n\ubbf8\uc7a5 \uccab \ubc88\uc9f8 \uc885\ubaa9\uc740 \uc5d4\ube44\ub514\uc544\uc785\ub2c8\ub2e4. \ucd5c\uadfc AI \uac70\ud488\ub860\uc774\ub098 \ubcc0\ub3d9\uc131 \ub54c\ubb38\uc5d0 \uc870\uc815\uc744 \uc880 \ub9de\uc558\uc9c0\ub9cc 120\uc77c\uc120\uacfc \uc8fc\uc694 \ub9e4\ubb3c\ub300 \uc0c1\ub2e8\uc5d0\uc11c \uae30\ub9c9\ud788\uac8c \uc9c0\uc9c0\ub97c \ubc1b\uc73c\uba74\uc11c \ubc18\ub4f1 \uc2dc\ub3c4\ub97c \ud558\uace0 \uc788\uc2b5\ub2c8\ub2e4. RSI\ub3c4 40\ub300 \uc911\ubc18\uc5d0\uc11c \uc704\ub85c \uc62c\ub77c\uc624\uba74\uc11c \ub2e8\uae30 \ubc18\ub4f1 \ubaa8\uba58\ud140\uc5d0 \ubd88\uc744 \uc9c0\ud3c8\uc2b5\ub2c8\ub2e4. MACD \ub370\ub4dc\ud06c\ub85c\uc2a4\uac00 \uc544\uc9c1 \uc2e0\uacbd \uc4f0\uc774\uae34 \ud558\ub2c8\uae4c \ucd94\uaca9 \ub9e4\uc218\ubcf4\ub2e4\ub294 213.58\ub2ec\ub7ec \ubd80\uadfc\uae4c\uc9c0 \ub0b4\ub824\uc624\ub294 \ub20c\ub9bc\ubaa9\uc744 \uae30\ub2e4\ub838\ub2e4\uac00 \ubc1b\ub294 \uac8c \uc548\uc804\ud569\ub2c8\ub2e4. \uc190\uc808\ub77c\uc778\uc740 \ucd5c\uadfc \uc9c0\uc9c0\ub825\uc744 \ubcf4\uc5ec\uc900 207.04\ub2ec\ub7ec \uc774\ud0c8 \uc2dc \uce7c\uac19\uc774 \uc790\ub974\ub294 \uac8c \uc88b\uc2b5\ub2c8\ub2e4.\n\n4. Tesla, Inc.\n\n(\uc885\ubaa9 \ucc28\ud2b8)\n(\uc885\ubaa9 \ud2b8\ub808\uc774\ub529\ubdf0 url)\n\n\ub9c8\uc9c0\ub9c9 \ubbf8\uc7a5 \uc885\ubaa9\uc740 \ud14c\uc2ac\ub77c\uc785\ub2c8\ub2e4. \ucd5c\uadfc \ub300\ub7c9 \uac70\ub798\ub300\uae08\uc744 \uc2e4\uc740 \uc7a5\ub300\uc591\ubd09\uc774 \uaf42\ud788\uba74\uc11c \uc77c\ubaa9\uad6c\ub984\ub300 \uc704\ub85c \uc548\ucc29\ud588\uace0 \ubcfc\ub9b0\uc800\ubc34\ub4dc \uc0c1\ub2e8\uc744 \uac15\ud558\uac8c \ubc00\uc5b4 \uc62c\ub9ac\ub294 \uae30\uc138\uac00 \uc7a5\ub09c \uc544\ub2d9\ub2c8\ub2e4. RSI\ub3c4 65\ub97c \ub118\uae30\uba70 \ub9e4\uc218 \uc5d0\ub108\uc9c0\uac00 \ucda9\ub9cc\ud55c \uc0c1\ud0dc\uace0 MACD \uace8\ub4e0\ud06c\ub85c\uc2a4\ub3c4 \uc774\uc058\uac8c \ud130\uc84c\uc2b5\ub2c8\ub2e4. \ucc28\ud2b8 \ud750\ub984\uc774 \uc6cc\ub099 \uac15\ud574\uc11c 399.31\ub2ec\ub7ec \ubd80\uadfc\uc758 \ub20c\ub9bc\ubaa9\uc744 \ud0c0\uc810\uc73c\ub85c \uc7a1\uace0 \ub4e4\uc5b4\uac00\uae30 \uc88b\uc544 \ubcf4\uc785\ub2c8\ub2e4. \ud639\uc2dc\ub77c\ub3c4 \uc218\uae09\uc774 \uaf2c\uc5ec\uc11c \ub0b4\ub824\uac04\ub2e4\uba74 385.53\ub2ec\ub7ec\ub97c \uc190\uc808\uc120\uc73c\ub85c \uc7a1\uace0 \ub300\uc751\ud558\ub294 \uac83\uc774 \ub9ac\uc2a4\ud06c \uad00\ub9ac \uce21\uba74\uc5d0\uc11c \uc548\uc804\ud560 \uac83 \uac19\uc2b5\ub2c8\ub2e4.\n\n\n\uc694\uc998\uc740 \uc7a5\uc774 \uc9c0\uc218\ub9cc \ubbff\uace0 \uac00\uae30\uc5d0\ub294 \ubcc0\uc218\uac00 \ub108\ubb34 \ub9ce\uc544\uc11c \uac1c\ubcc4 \uc885\ubaa9\ub4e4\uc758 \ud14c\ud06c\ub2c8\uceec\ud55c \uc790\ub9ac\ub098 \uc218\uae09 \uc3e0\ub9bc\uc744 \ubcf4\uba74\uc11c \uc9e7\uac8c \uba39\uace0 \ub098\uc624\ub294 \uac8c \uc815\uc2e0 \uac74\uac15\uc5d0 \uc774\ub85c\uc6b4 \uac83 \uac19\uc544\uc694. \ub0b4\uc77c\ub3c4 \uc7a5 \uc5f4\ub9ac\uba74 \uc5f4\uc2ec\ud788 \ubaa8\ub2c8\ud130\ub9c1\ud574\ubcf4\uace0 \uad1c\ucc2e\uc740 \ub0b4\uc6a9 \ub4e4\uace0 \uc624\uaca0\uc2b5\ub2c8\ub2e4.\n\n\uc77d\uc5b4\uc8fc\uc154\uc11c \uac10\uc0ac\ud569\ub2c8\ub2e4. \ub057";
             navigator.clipboard.writeText(textToCopy).then(() => {
                 const btn = document.querySelector('.copy-btn');
                 btn.innerText = '✅ 복사 완료!';
